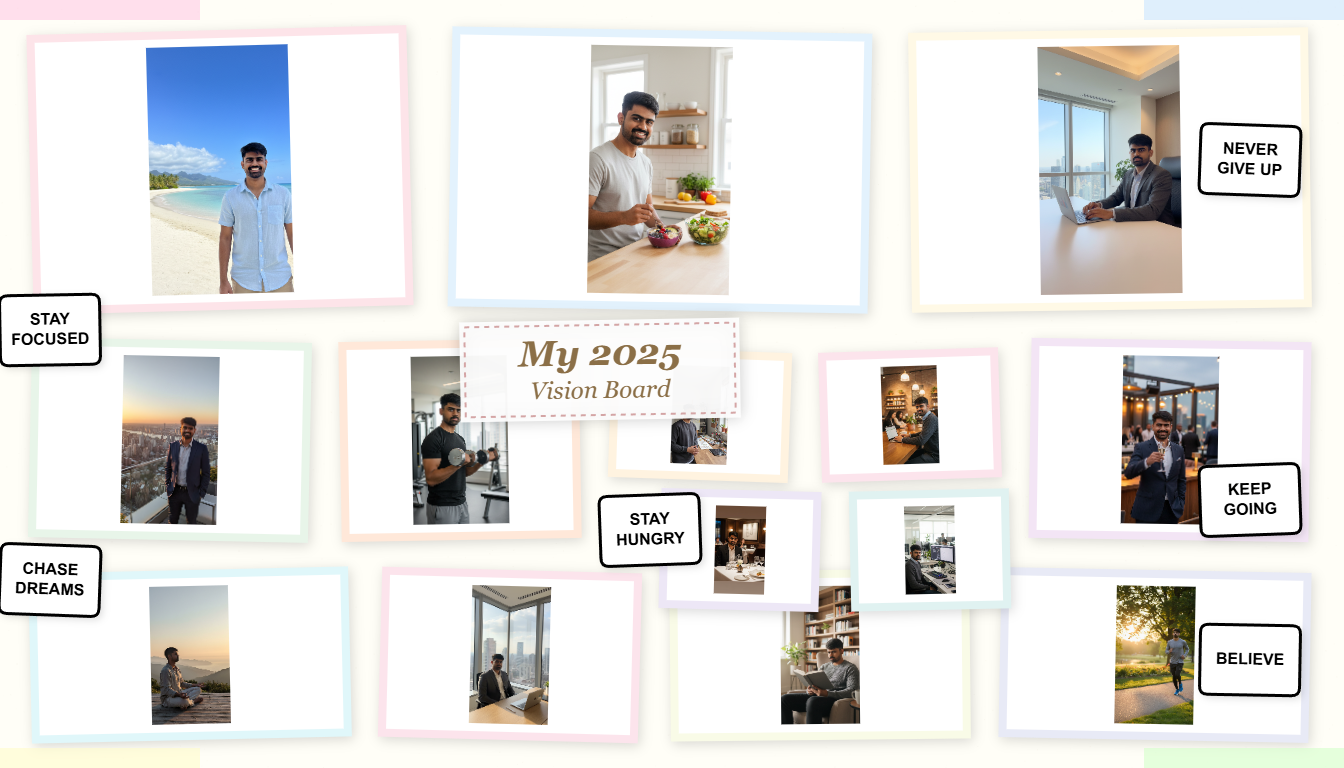
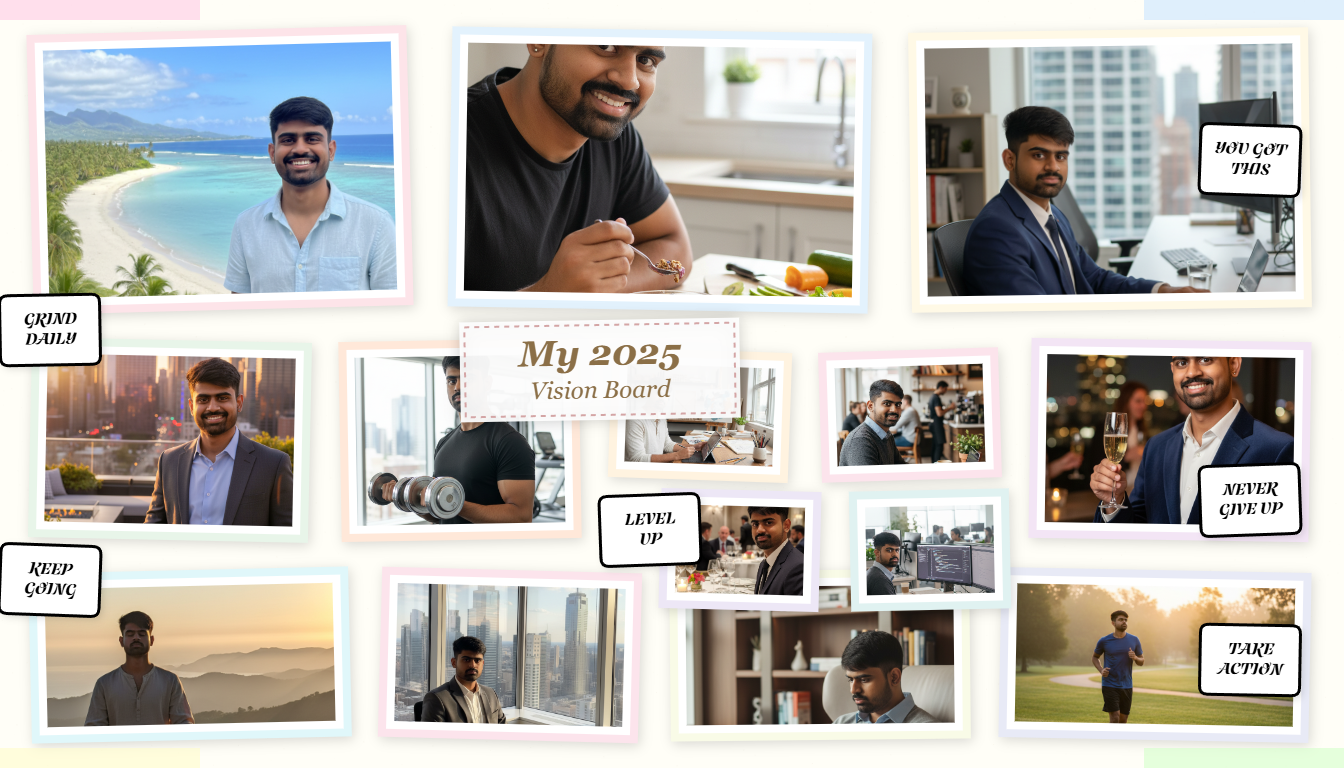
scrape book layout changes

diff --git a/src/components/templates/MinimalScrapbookTemplate.tsx b/src/components/templates/MinimalScrapbookTemplate.tsx
@@ -54,6 +54,7 @@ export default function MinimalScrapbookTemplate({
 
   // Minimal scrapbook positions - GENTLE ROTATIONS, IMPROVED PASTEL THEME
   // Mix of different sizes, organized but casual - softer, more harmonious colors
+  // Removed overlapping center images to make space for "My 2025 Vision Board" tag
   const scrapbookPositions = [
     // Top row (large focus images) - warm pastels
     { top: 30, left: 30, width: 380, height: 280, rotate: -1.5, border: '#fde4e9', keyword: keywords[0] },
@@ -63,7 +64,7 @@ export default function MinimalScrapbookTemplate({
     // Middle row (medium + small mix) - cool pastels
     { top: 340, left: 30, width: 280, height: 200, rotate: 1.2, border: '#e8f5e9', keyword: "" },
     { top: 340, left: 340, width: 240, height: 200, rotate: -1, border: '#ffe8d9', keyword: keywords[2] },
-    // CENTER SPACE
+    // CENTER SPACE FOR "MY 2025 VISION BOARD" TAG
     { top: 340, left: 1030, width: 280, height: 200, rotate: 0.9, border: '#f3e5f5', keyword: "" },
 
     // Bottom row (varied sizes) - mixed pastels
@@ -71,12 +72,6 @@ export default function MinimalScrapbookTemplate({
     { top: 570, left: 380, width: 260, height: 170, rotate: 1.5, border: '#fce4ec', keyword: keywords[3] },
     { top: 570, left: 670, width: 300, height: 170, rotate: -0.6, border: '#f9fbe7', keyword: "" },
     { top: 570, left: 1000, width: 310, height: 170, rotate: 1.1, border: '#e8eaf6', keyword: keywords[4] },
-
-    // Accent small images - complementary pastels
-    { top: 350, left: 610, width: 180, height: 130, rotate: 2, border: '#fff3e0', keyword: "" },
-    { top: 350, left: 820, width: 180, height: 130, rotate: -1.8, border: '#fce4ec', keyword: "" },
-    { top: 490, left: 660, width: 160, height: 120, rotate: 1.5, border: '#ede7f6', keyword: "" },
-    { top: 490, left: 850, width: 160, height: 120, rotate: -1.2, border: '#e0f2f1', keyword: "" },
   ];
 
   // Canvas rendering for download

diff --git a/src/components/templates/MagazineCollageTemplate.tsx b/src/components/templates/MagazineCollageTemplate.tsx
@@ -148,25 +148,34 @@ export default function MagazineCollageTemplate({
           ctx.fillRect(0, 0, pos.width, pos.height);
           ctx.shadowColor = 'transparent';
 
-          // Draw image inside the border
+          // Draw image inside the border with proper scaling to cover the frame (true cover mode)
           const padding = 12;
           const imgRatio = img.width / img.height;
           const boxRatio = (pos.width - padding * 2) / (pos.height - padding * 2);
           let drawWidth, drawHeight, drawX, drawY;
 
+          // Always fill the frame completely (cover mode - image fills entire space)
           if (imgRatio > boxRatio) {
+            // Image is wider - match height, let width overflow
             drawHeight = pos.height - padding * 2;
             drawWidth = drawHeight * imgRatio;
             drawX = padding - (drawWidth - (pos.width - padding * 2)) / 2;
             drawY = padding;
           } else {
+            // Image is taller - match width, let height overflow
             drawWidth = pos.width - padding * 2;
             drawHeight = drawWidth / imgRatio;
             drawX = padding;
             drawY = padding - (drawHeight - (pos.height - padding * 2)) / 2;
           }
 
+          // Clip to ensure image doesn't overflow
+          ctx.save();
+          ctx.beginPath();
+          ctx.rect(padding, padding, pos.width - padding * 2, pos.height - padding * 2);
+          ctx.clip();
           ctx.drawImage(img, drawX, drawY, drawWidth, drawHeight);
+          ctx.restore();
 
           // Draw tape decorations AFTER image (so they appear on top)
           const drawTape = (x: number, y: number, angle: number) => {
